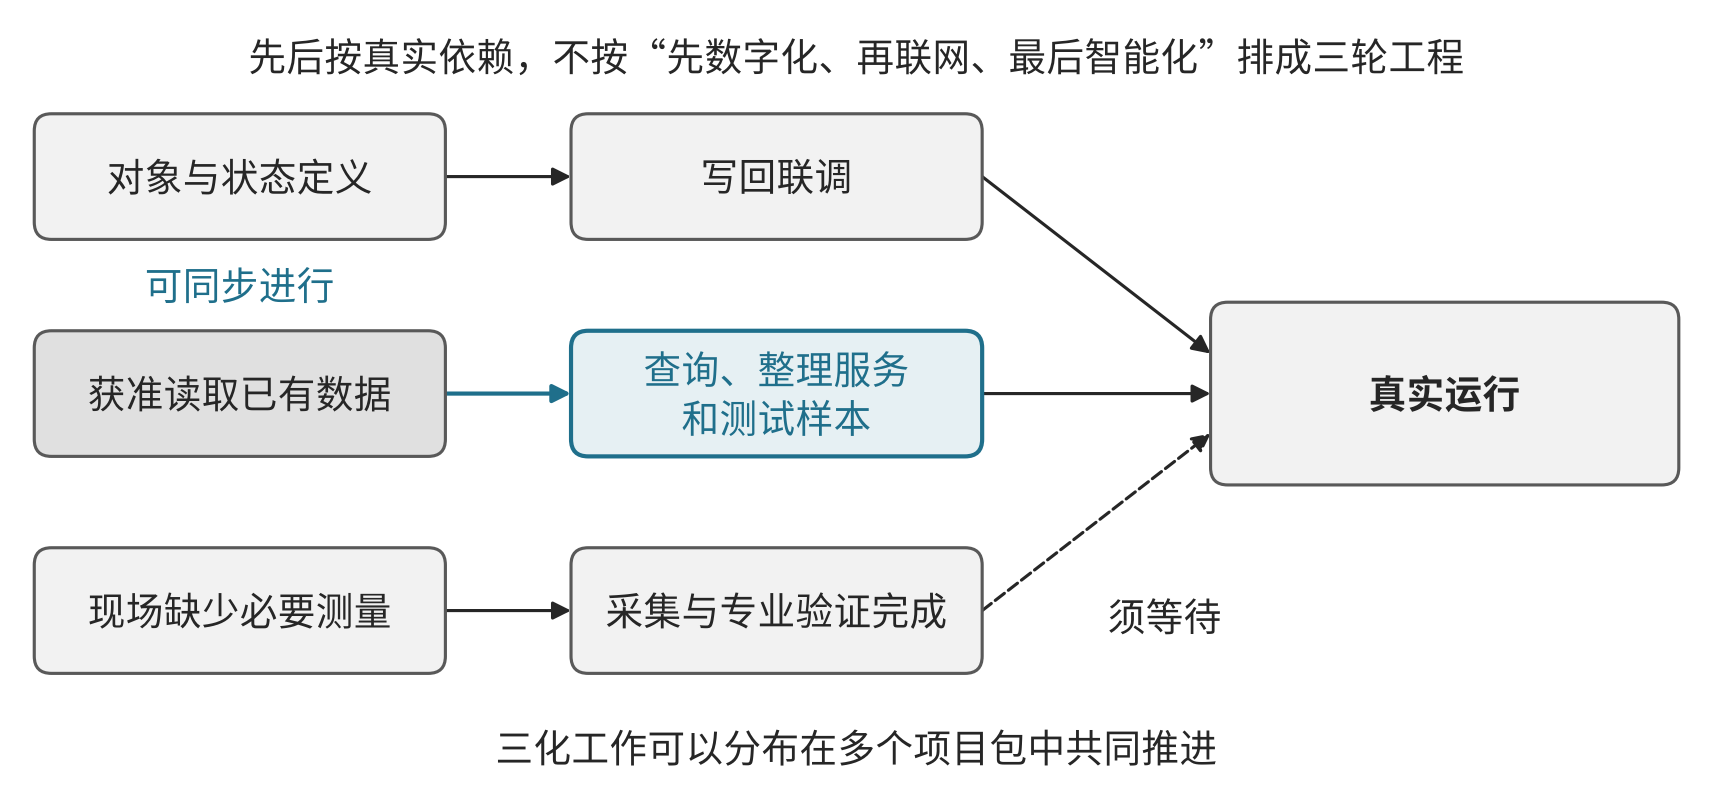
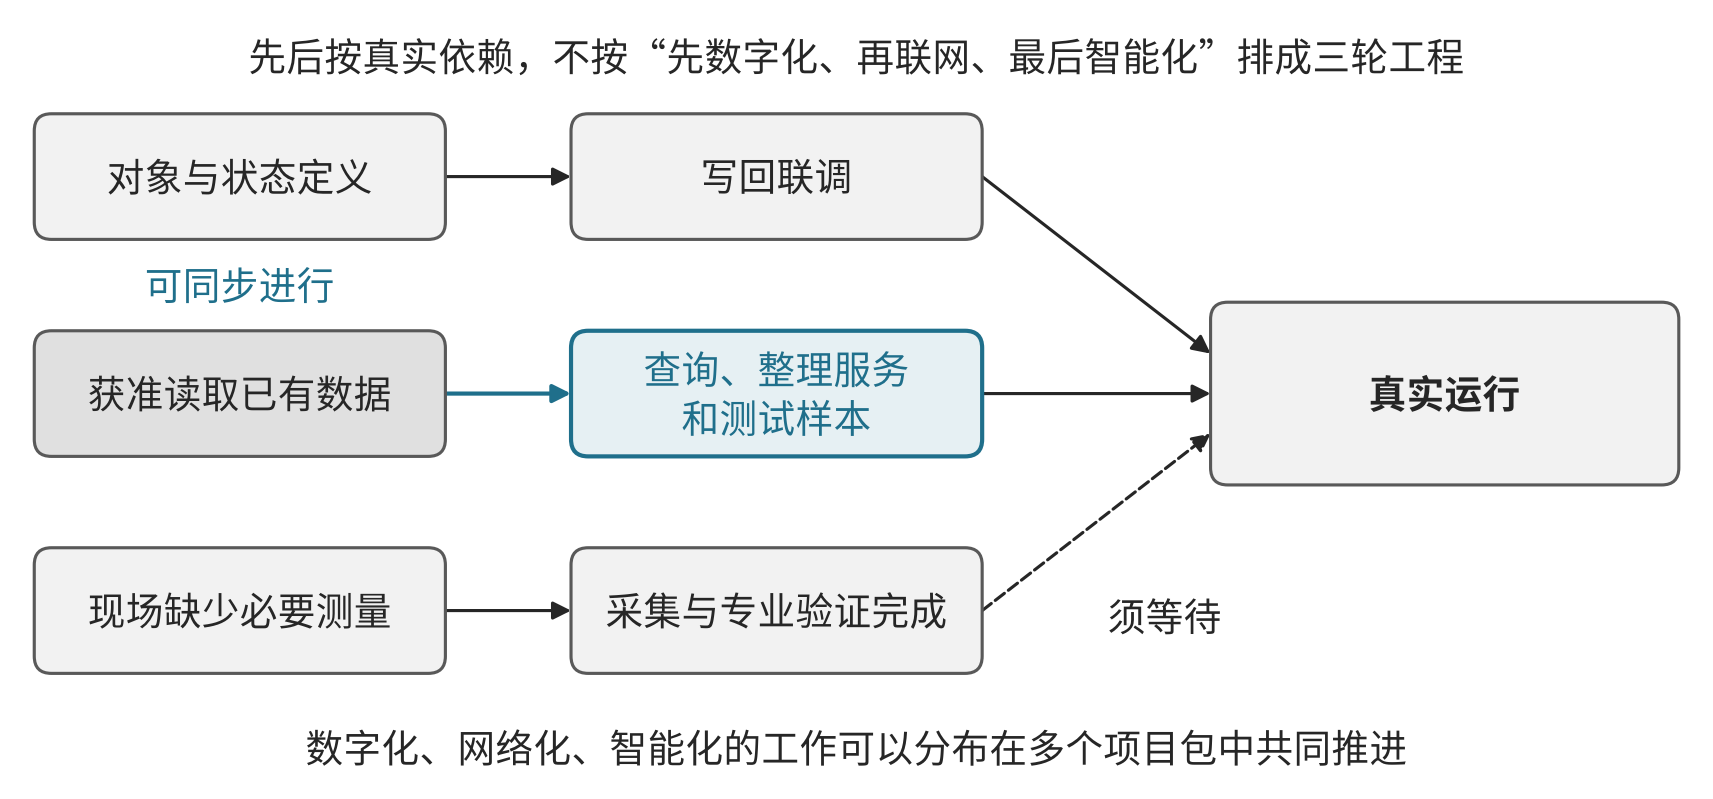
图8-2、8-3：说明文字改用第8章正文原句

Changed region(s): [[0.3403, 0.9011, 0.8354, 0.9612], [0.1547, 0.9011, 0.3094, 0.9612]]

diff --git a/scripts/figures/specs.py b/scripts/figures/specs.py
@@ -502,7 +502,7 @@ def _():
     f.arrow((8.6, 5.45), (10.6, 3.9)); f.arrow((8.6, 3.55), (10.6, 3.55)); f.arrow((8.6, 1.65), (10.6, 3.2), dashed=True)
     f.text(9.7, 1.6, '须等待', ha='left')
     f.text(7.5, 6.5, '先后按真实依赖，不按“先数字化、再联网、最后智能化”排成三轮工程', fs=9)
-    f.text(7.5, 0.45, '三化工作可以分布在多个项目包中共同推进')
+    f.text(7.5, 0.45, '数字化、网络化、智能化的工作可以分布在多个项目包中共同推进')
     return f
 
 @fig('T-08-3', UP, '08-实施建议-从改造机会到可验证行动.md', '运行与验收记录返回目标', '运行反馈的分流：扩展、调整或停止', '08-3-运行反馈分流', SELF)
@@ -517,11 +517,11 @@ def _():
     f.box(6.4, 3.2, 2.4, 1.8, '有权者确认改变的范围', fill=FILL2)
     outs = [('保留或扩大', '可靠交付、实际采用且完整投入合理；扩展前重新核对条件'),
             ('调整', '能够定位和修正：明确责任与期限后重新验证'),
-            ('停止', '前提长期不成立或修正后仍达不到要求；记录原因和恢复条件')]
+            ('停止', '前提长期不成立或修正后仍达不到要求；记录停止原因和恢复条件')]
     for i, (a, b) in enumerate(outs):
-        y = 5.8 - i * 2.1
-        f.box(9.4, y + 0.85, 5.3, 0.75, a, accent=True, bold=True); f.box(9.4, y - 0.35, 5.3, 1.15, b, fill='white', fs=9)
-        f.arrow((8.8, 4.1), (9.4, y + 1.2), accent=True)
+        y = 5.9 - i * 2.25
+        f.box(9.3, y + 0.85, 5.5, 0.75, a, accent=True, bold=True); f.box(9.3, y - 0.7, 5.5, 1.5, b, fill='white', fs=9)
+        f.arrow((8.8, 4.1), (9.3, y + 1.2), accent=True)
     f.text(7.5, 0.35, '修订保留前后版本，用此前失败样本和后续相近任务再验证')
     return f
 
